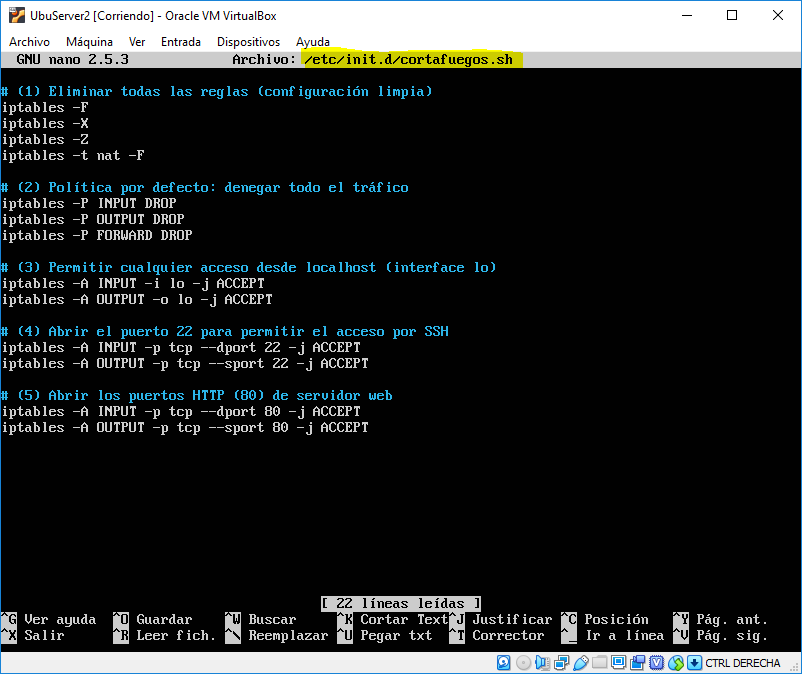
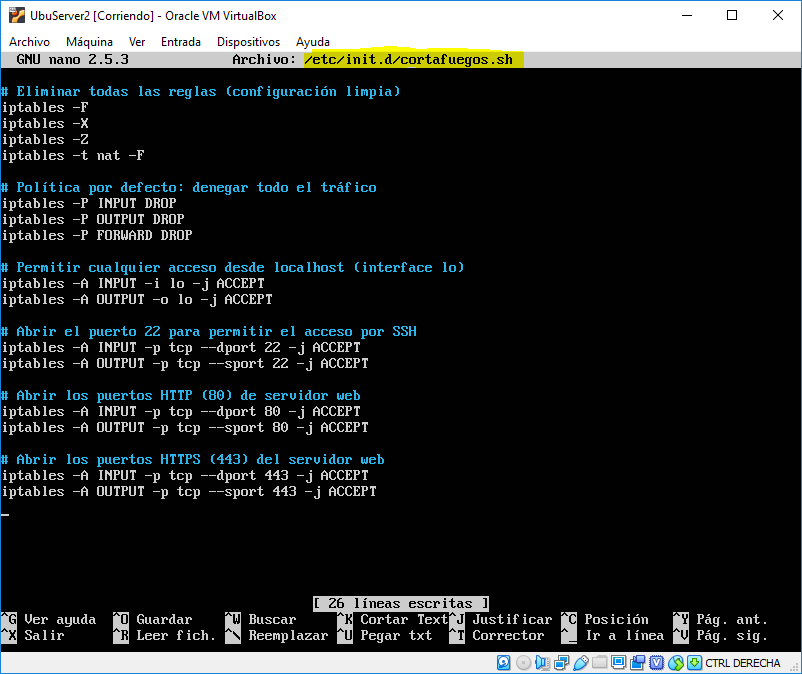
P4 acabada

diff --git a/P4/README.md b/P4/README.md
@@ -66,4 +66,11 @@ Para mantener esta configuración debemos hacer que el script se ejecute cada ve
 
 ![](./images/cortafuegos2.PNG)
 
-Ahora reiniciaremos la máquina y comprobaremos si podemos hacer peticiones al servidor.
+Ahora reiniciaremos la máquina y comprobaremos los puertos para ver si la configuración de *iptables* ha sido correcta.
+
+![](./images/cortafuegos3.PNG)
+
+Como podemos ver, los puertos 80 y 443 están disponibles, por lo que ahora al realizar peticiones HTTP o HTTPS deberíamos obtener respuesta por parte del servidor.
+
+![](./images/cortafuegos4.PNG)
+
